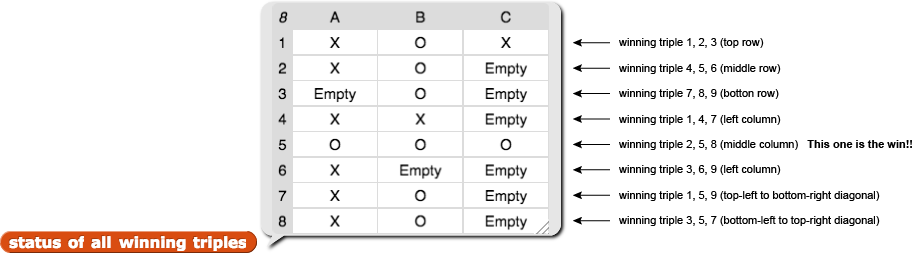
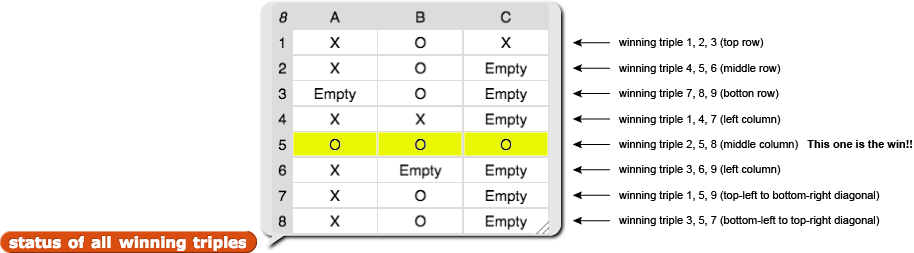
TTT Edits - images and comments

Changed region(s): [[0.3063, 0.498, 0.6127, 0.6364]]

diff --git a/cur/programming/3-lists/2-tic-tac-toe/2-find-wins.html b/cur/programming/3-lists/2-tic-tac-toe/2-find-wins.html
@@ -13,7 +13,6 @@
         </div>
     	<h2>Detecting  Wins and Ties</h2>
         <div class="todo">
-        	<p><strong>Mary's 5/25/18 revision</strong>: I revised this page <em><strong>heavily</strong></em>. The project is still the same (minus some variable name changes). But the page is now split up with text to motivate the FYTDs, there are more hints, and the use of <code>map</code> is unpacked so it's comprehensible. I think we should split this into 2, 3, or even 4 pages (making it up to 5 pages for the whole lab), but I won't do that until Brian has had a chance to see what I've done. The teacher guide will need attention and the solutions file needs the blocks renamed at a minimum. --MF, 5/25/18</p>
 	        <p>I made some edits to include the word "possible" more. I'm not sure I didn't make it more confusing. Need to look again another day. --MF, 6/13/18</p>
         </div>
 		
@@ -69,21 +68,28 @@
                 <li>Click <img src="/bjc-r/img/1-introduction/green-flag_button.png" alt="green flag button" title="green flag button" /> to start a new game. Play one game, <em>deliberately letting <strong>x</strong>  win</em>. </li>
                 <li>
                     Then build this expression, and see what it reports:<br />
-                    <div class="sidenoteBig">
-                        <a href="#hint-map-item" data-toggle="collapse" title="What's going on here?">What's going on here?  Click for more information.</a>
+                    <img class="indent" src="/bjc-r/img/3-lists/map-item-board.png" alt="map (item ( ) of (board)) over (list{1, 2, 3})" title="map (item ( ) of (board)) over (list{1, 2, 3})"><br />
+                    <div class="endnote">
+                        <a href="#hint-map-item" data-toggle="collapse" title="How does map work here?">How does <code>map</code> work here?</a>
                         <div id="hint-map-item" class="collapse">
                             <p>This <code>map</code> expression works the same way as the <code>join</code> example above, but it's a little more complex to think about. As before, <code>map</code> inserts each list item into the blank space in the function inside the gray ring, and it reports a list of the results.</p>
                             <p>But here, the function in the gray ring is <code>item ( ) of (</code><var>board</var><code>)</code>, so <code>map</code> checks items 1, 2, and 3 of the list stored in the <var>board</var> variable, and it reports a list of what is in those three positions (X, O, or Empty).</p>
-                            <p>(If you can't see what's inside the <var>board</var> variable, be sure its box is checked in the Variables palette, and expand its watcher to see its list items as in the picture at the top of the previous page.)</p>
+                            <p>
+                            	If you can't see what's inside the <var>board</var> variable, be sure its box is checked in the Variables palette and expand its watcher to see its list items as in the picture below.
+                                <img class="indent noshadow" src="/bjc-r/img/3-lists/ttt-board-var.png" alt="picture of: watcher of board variable showing {X, O, Empty, Empty, X, Empty, Empty, Empty, O}; and Tic Tac Toe game with X in upper left and center and O in upper middle and lower right" title="picture of: watcher of board variable showing {X, O, Empty, Empty, X, Empty, Empty, Empty, O}; and Tic Tac Toe game with X in upper left and center and O in upper middle and lower right" />
+							</p>
                         </div>
                     </div>
-                    <img class="indent" src="/bjc-r/img/3-lists/map-item-board.png" alt="map (item ( ) of (board)) over (list{1, 2, 3})" title="map (item ( ) of (board)) over (list{1, 2, 3})"><br />
                 </li>
                 <div class="todo">
-                <p>One reason students find this confusing, I think, is that typically the first input to <code>item</code> is a constant number, e.g.,<br />
-                 <img src="/bjc-r/img/3-lists/constant-first-input.png"><br />
-As a result, they're in the habit of thinking of the first input as part of the block syntax, and the second input as the <em>real</em> input.  That makes it hard to think about this situation in which it's the first input that changes.</p>
-                <p>So the question is, should we be explicit about this point? Or maybe put it in the TG, but here in the student text would be my vote. --bh</p></div>
+                    <p>
+                        One reason students find this confusing, I think, is that typically the first input to <code>item</code> is a constant number, e.g.,<br />
+                        <img src="/bjc-r/img/3-lists/constant-first-input.png"><br />
+                        As a result, they're in the habit of thinking of the first input as part of the block syntax, and the second input as the <em>real</em> input.  That makes it hard to think about this situation in which it's the first input that changes.
+                    </p>
+                    <p>So the question is, should we be explicit about this point? Or maybe put it in the TG, but here in the student text would be my vote. --bh</p>
+                    <p><strong>Brian,</strong> does the hint not help enough here? --MF, 6/26/18</p>
+                </div>
                 <li>
                     <img class="inline" src="/bjc-r/img/icons/talk-with-your-partner.png" alt="Talk with Your Partner" title="Talk with Your Partner" />
                     What does the result of that expression tell you about the state of the game?
@@ -104,7 +110,6 @@ As a result, they're in the habit of thinking of the first input as part of the 
         <p>You've just built a block that will check one triple to see which player (if either of them) has chosen those each of those squares. Now, you'll build a block, <code>status of all winning triples</code> to perform the same check on the player moves for <em>all</em> of the triples that are winning triples. Then, use that block you'll check if any of the triples that would be a win actually contain three moves from the same player.</p>
         <p>
         	For example, Player O has won this game, and the <code>status of all winning triples</code> block contains the status of each triple. The computer can use this block to check for a row with either all X or all O.<br />
-            <div class="commentBig">Both these pictures would benefit from yellow highlighter to make the winning triple easier to spot. --bh</div>
 	        <img class="indent noshadow" src="/bjc-r/img/3-lists/status-of-all-board.png" alt="Tic Tac Toe game where Player O has won down the middle column. In row one, there is X, O, and X. In row two, there is X, O, and an empty square. In row three, there is an empty square, O, and an empty square." title="Tic Tac Toe game where Player O has won down the middle column. In row one, there is X, O, and X. In row two, there is X, O, and an empty square. In row three, there is an empty square, O, and an empty square." />
 	        <img class="indent noshadow" src="/bjc-r/img/3-lists/status-of-all-reporting.png" alt="The status of all winning triples block is reporting a list of lists (a table). There are three columns and eight rows, and each cell contains either a X, an O, or Empty. There is text to the right of each row listing the corresponding triple and where it appears on the board (such as 1, 5, 9 being the top-left to bottom-right diagonal). The triple in which Player O has won this game (2, 5, 8) shows O, O, O in the table. That is the only row with either all O or all X." title="The status of all winning triples block is reporting a list of lists (a table). There are three columns and eight rows, and each cell contains either a X, an O, or Empty. There is text to the right of each row listing the corresponding triple and where it appears on the board (such as 1, 5, 9 being the top-left to bottom-right diagonal). The triple in which Player O has won this game (2, 5, 8) shows O, O, O in the table. That is the only row with either all O or all X." />
         </p>
@@ -158,7 +163,6 @@ As a result, they're in the habit of thinking of the first input as part of the 
                         <a href="#hint-tie-contains" data-toggle="collapse" title="Hint">Click for a hint.</a>
                         <div id="hint-tie-contains" class="collapse"><img src="/bjc-r/img/3-lists/contains.png" alt="( ) contains ( )" title="( ) contains ( )" /></div>
 					</div>
-					<div class="comment">I cut this because I think it's a great thing for kids to struggle with: "Be sure to make this test <em>after</em> the test for a win." --MF, 5/25/18</div>
                     Develop a way to determine if the game has tied, and if so, make the program notify the players.
                 </li>
                 <li>Play a couple games to test the tie-checking feature, and fix any bugs.</li>
